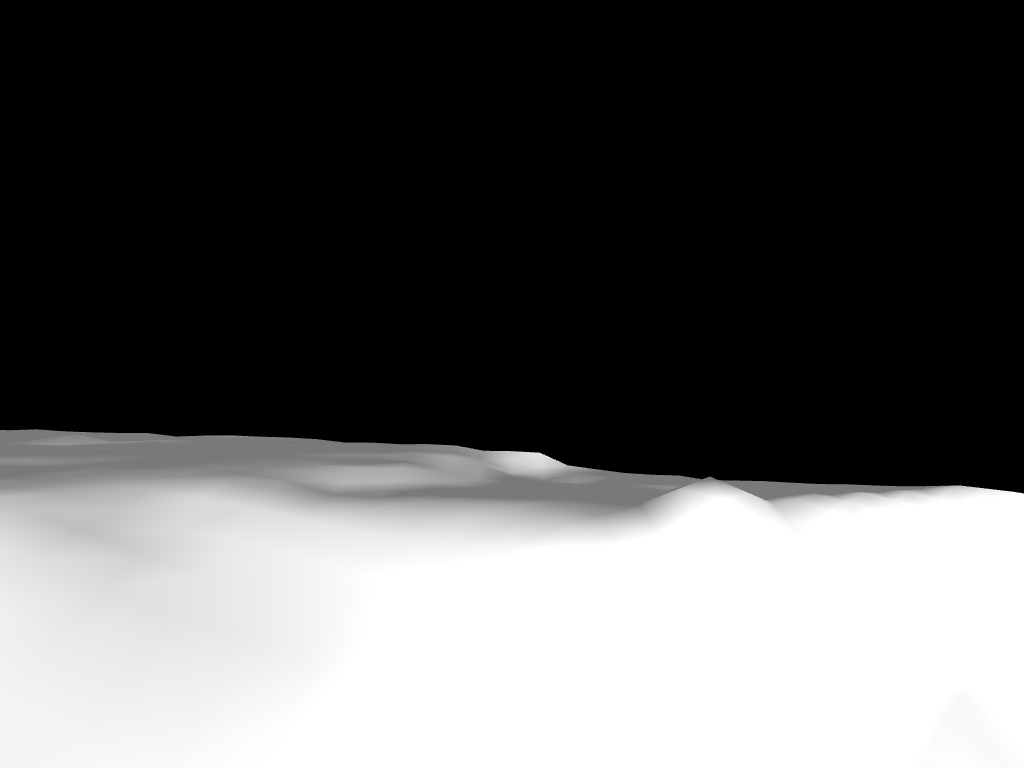
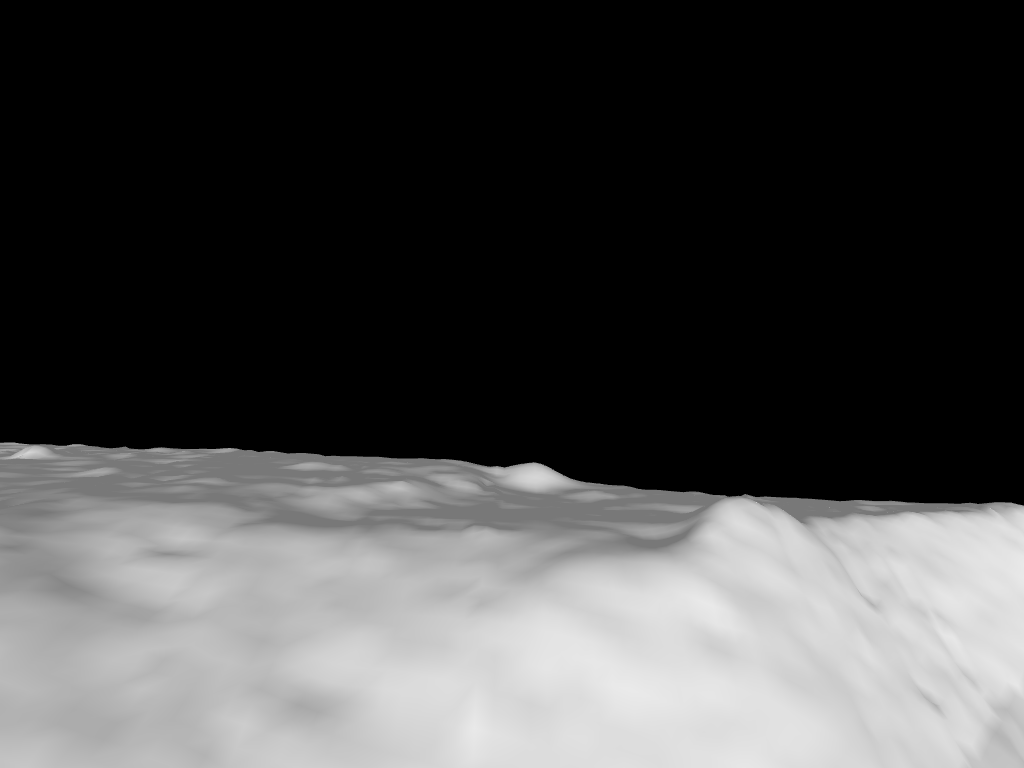
added more scale

diff --git a/generate_horizon_images.py b/generate_horizon_images.py
@@ -18,12 +18,12 @@ def generate_horizon_views(mesh, num_views=8):
     bbox_size = bbox.get_max_bound() - bbox.get_min_bound()
     
     # Calculate observer parameters based on real-world meters
-    ground_height = bbox.get_min_bound()[2] + 2.0  # 2 meters above ground
-    observer_radius = 50.0  # 50 meter radius from center
-    look_distance = 1000.0  # Look 1km into the distance
+    ground_height = bbox.get_min_bound()[2] # 2 meters above ground
+    observer_radius = 500.0  # 500 meter radius from center
+    look_distance = 2000.0  # Look 2km into the distance
     
     # Adjust vertical look angle for more natural perspective
-    look_height = ground_height + 1  # Average human eye height (1.7m)
+    look_height = ground_height + 1  # observer is 1 meter above ground
     
     print(f"Observer setup:")
     print(f"Ground height: {ground_height:.2f}")
@@ -48,7 +48,7 @@ def generate_horizon_views(mesh, num_views=8):
         look_target = np.array([
             center[0] + look_distance * np.cos(angle),
             center[1] + look_distance * np.sin(angle),
-            look_height
+            look_height-1
         ])
         
         print(f"\nProcessing view {i+1}/{num_views}")
@@ -105,8 +105,7 @@ def draw_agent_on_dem(dem_data, transform, observer_position, look_target, filen
         real_target_y = look_target[1]
         
         # Debug prints
-        print(f"Normalized observer position: ({observer_position[0]:.2f}, {observer_position[1]:.2f})")
-        print(f"Real-world observer position: ({real_observer_x:.2f}, {real_observer_y:.2f})")
+        print(f"Coordinate observer position: ({real_observer_x:.2f}, {real_observer_y:.2f})")
         
         # Plot the agent's position
         ax.scatter(real_observer_x, real_observer_y, 

diff --git a/render_scene.py b/render_scene.py
@@ -52,13 +52,8 @@ def render_scene(mesh, rover_position, camera_target, image_width=1024, image_he
         
         # Add multiple lights for better illumination
         # Main directional light (sun)
-        direct_l = pyrender.DirectionalLight(color=[1.0, 1.0, 1.0], intensity=10.0)
+        direct_l = pyrender.DirectionalLight(color=[1.0, 1.0, 1.0], intensity=5.0)
         scene.add(direct_l, pose=pose)
-        
-        # Additional directional light from above
-        light_pose = np.eye(4)
-        light_pose[:3, 3] = rover_position + np.array([0, 0, 1000])  # Light from above
-        scene.add(direct_l, pose=light_pose)
         
         # Create renderer
         r = pyrender.OffscreenRenderer(image_width, image_height)

diff --git a/dem_to_mesh.py b/dem_to_mesh.py
@@ -4,7 +4,7 @@ import numpy as np
 import open3d as o3d
 import rasterio
 
-def create_mesh_from_dem(dem_data, transform, downsample_factor=4):
+def create_mesh_from_dem(dem_data, transform, downsample_factor=1):
     print("\n=== DEM to Mesh Conversion ===")
     print(f"Input DEM shape: {dem_data.shape}")
     print(f"Downsample factor: {downsample_factor}")
@@ -30,7 +30,6 @@ def create_mesh_from_dem(dem_data, transform, downsample_factor=4):
     x_coords = np.array(x_coords)
     y_coords = np.array(y_coords)
     
-    print("Normalizing coordinates...")
     # Scale coordinates to reasonable size
     x = x_coords.flatten()
     y = y_coords.flatten()
